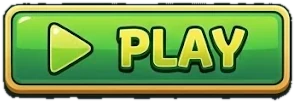
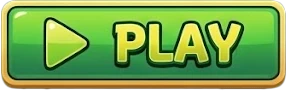
feat(ui): new button art and wooden arena panels
- New HOME, REMATCH, PLAY AGAIN and PLAY buttons
- Arena cards on a wooden board panel, content inside it
- The + of the home coin frame sits inside the frame

diff --git a/apps/client/src/main.tsx b/apps/client/src/main.tsx
@@ -14,7 +14,7 @@ import { initPlayGames } from "./network/playGames";
 
 // Loading screen: artwork, fonts, the server check and the first 3D frame.
 const base = import.meta.env.BASE_URL;
-const images = ["title.webp", "logo.webp", "ui/frame.webp", "ui/header.webp", "ui/close.webp", "ui/bg-tile.webp", "ui/coin-frame.webp", "ui/shop.webp", "ui/profile-frame.webp", "ui/timer-circle.webp", "ui/powerup-frame.webp", "ui/results-board.webp", "ui/btn-about.webp", "ui/btn-buy.webp", "ui/btn-not-now.webp", "ui/btn-coming-soon.webp", "ui/label-free.webp", "ui/toggle-vibration.webp", "ui/btn-play.webp", "ui/btn-home.webp", "ui/btn-rematch.webp", "ui/btn-play-again.webp", ...["red", "blue", "green", "yellow"].map((c) => `hud/player-${c}.webp`), ...["training", "rookie", "pro", "champion"].map((id) => `arenas/${id}.webp`), ...["iron", "thunder", "wind", "giant"].flatMap((k) => [`powerups/${k}-coin.webp`, `powerups/${k}-flag.webp`])];
+const images = ["title.webp", "logo.webp", "ui/frame.webp", "ui/header.webp", "ui/close.webp", "ui/bg-tile.webp", "ui/coin-frame.webp", "ui/shop.webp", "ui/profile-frame.webp", "ui/timer-circle.webp", "ui/powerup-frame.webp", "ui/results-board.webp", "ui/arena-panel.webp", "ui/btn-about.webp", "ui/btn-buy.webp", "ui/btn-not-now.webp", "ui/btn-coming-soon.webp", "ui/label-free.webp", "ui/toggle-vibration.webp", "ui/btn-play.webp", "ui/btn-home.webp", "ui/btn-rematch.webp", "ui/btn-play-again.webp", ...["red", "blue", "green", "yellow"].map((c) => `hud/player-${c}.webp`), ...["training", "rookie", "pro", "champion"].map((id) => `arenas/${id}.webp`), ...["iron", "thunder", "wind", "giant"].flatMap((k) => [`powerups/${k}-coin.webp`, `powerups/${k}-flag.webp`])];
 images.forEach((file) => bootTrack(`img:${file}`, 1, preloadImage(`${base}${file}`)));
 bootTrack("fonts", 1, document.fonts?.ready ?? Promise.resolve());
 bootTrack("network", 2, roomManager.ready);
@@ -33,6 +33,7 @@ for (const [name, file] of [
   ["timer-circle", "timer-circle"],
   ["powerup-frame", "powerup-frame"],
   ["results-board", "results-board"],
+  ["arena-panel", "arena-panel"],
 ] as const) {
   document.documentElement.style.setProperty(`--ui-${name}`, `url("${base}ui/${file}.webp")`);
 }

diff --git a/apps/client/src/styles.css b/apps/client/src/styles.css
@@ -4712,3 +4712,73 @@ dl.profile__stats {
   width: 100%;
   max-width: calc(439px * var(--art-scale));
 }
+
+/* ======================================================================
+   Arena cards on the wooden board (public/ui/arena-panel.webp, 456×706);
+   everything sits inside the dark board (6.6–93.4 % across, 4–96.6 % down)
+   ====================================================================== */
+
+.arena-tile {
+  border: 0;
+  border-radius: 0;
+  box-shadow: none;
+  overflow: visible;
+  padding: 5% 8% 5%;
+  background: var(--ui-arena-panel) center / 100% 100% no-repeat;
+  filter: drop-shadow(0 5px 0 rgba(0, 0, 0, 0.35));
+  color: #f4ede2;
+}
+
+.arena-tile::before {
+  display: none;
+}
+
+.arena-tile__art {
+  border-radius: 8px;
+  border: 2px solid rgba(0, 0, 0, 0.45);
+}
+
+.arena-tile__body {
+  background: transparent;
+  padding-left: 0;
+  padding-right: 0;
+}
+
+.arena-tile__name {
+  color: #ffe7a8;
+}
+
+.arena-tile__mood,
+.arena-tile__facts dt {
+  color: rgba(244, 237, 226, 0.65);
+}
+
+.arena-tile__facts dd,
+.arena-tile__status {
+  color: #f4ede2;
+}
+
+.arena-tile__free {
+  top: 7%;
+  right: 10%;
+}
+
+.arena-tile__badge {
+  top: 7%;
+  left: 10%;
+  right: auto;
+}
+
+/* The + sits inside the coin frame, on its right; the amount is centred between the coin and the + */
+.home .coin-frame {
+  margin-right: 0;
+  padding-right: 34px;
+}
+
+.home .coin-frame__plus {
+  right: 8px;
+  top: 50%;
+  width: 22px;
+  height: 22px;
+  transform: translateY(-50%);
+}

diff --git a/apps/client/src/ui/Results.tsx b/apps/client/src/ui/Results.tsx
@@ -70,15 +70,15 @@ export function Results() {
         <div className="results-board__bottom">
           <div className="results-board__buttons">
             <button className="art-btn" onClick={() => void roomManager.leave()} aria-label="Home">
-              <img src={`${BASE}ui/btn-home.webp`} alt="" width={318} height={109} draggable={false} />
+              <img src={`${BASE}ui/btn-home.webp`} alt="" width={314} height={102} draggable={false} />
             </button>
             {paid ? (
               <button className="art-btn" onClick={playAgain} aria-label={`Play again for ${arena?.entryFee ?? 0} Sumo Coins`}>
-                <img src={`${BASE}ui/btn-play-again.webp`} alt="" width={288} height={102} draggable={false} />
+                <img src={`${BASE}ui/btn-play-again.webp`} alt="" width={281} height={91} draggable={false} />
               </button>
             ) : isHost ? (
               <button className="art-btn" onClick={() => roomManager.rematch()} aria-label="Rematch">
-                <img src={`${BASE}ui/btn-rematch.webp`} alt="" width={289} height={102} draggable={false} />
+                <img src={`${BASE}ui/btn-rematch.webp`} alt="" width={281} height={94} draggable={false} />
               </button>
             ) : null}
           </div>

diff --git a/apps/client/src/ui/ArenaSelect.tsx b/apps/client/src/ui/ArenaSelect.tsx
@@ -139,7 +139,7 @@ export function ArenaRow({ variant = "row" }: { variant?: "row" | "carousel" }) 
                     free ? `Play ${arena.name} for free` : soon ? `${arena.name}: coming soon` : `Enter ${arena.name} for ${arena.entryFee} Sumo Coins`
                   }
                 >
-                  <img src={`${import.meta.env.BASE_URL}ui/btn-play.webp`} alt="" width={291} height={99} draggable={false} />
+                  <img src={`${import.meta.env.BASE_URL}ui/btn-play.webp`} alt="" width={287} height={91} draggable={false} />
                 </button>
               </div>
             </li>

diff --git a/CHANGELOG.md b/CHANGELOG.md
@@ -6,6 +6,12 @@ Releases use the root `package.json` version and are tagged `vX.Y.Z` automatical
 
 ## [Unreleased]
 
+### Changed
+
+- New HOME, REMATCH, PLAY AGAIN and PLAY button art.
+- Arena cards sit on a wooden board panel, with their content inside it.
+- The + of the home coin frame is inside the frame.
+
 ### Added
 
 - Cafe Bazaar build: coin packs bought with Bazaar in-app billing (Poolakey 2.2.0, native Kotlin plugin). Each purchase is credited once, then consumed; unfinished purchases are credited the next time the shop opens. Built by the new `Bazaar` workflow on the `bazaar` branch (`bazaar-vX.Y.Z` releases), without Google Play Games. Settings in `apps/mobile/bazaar.config.json` and `apps/client/src/network/bazaarProducts.ts`; guide in `docs/BAZAAR.fa.md`.
